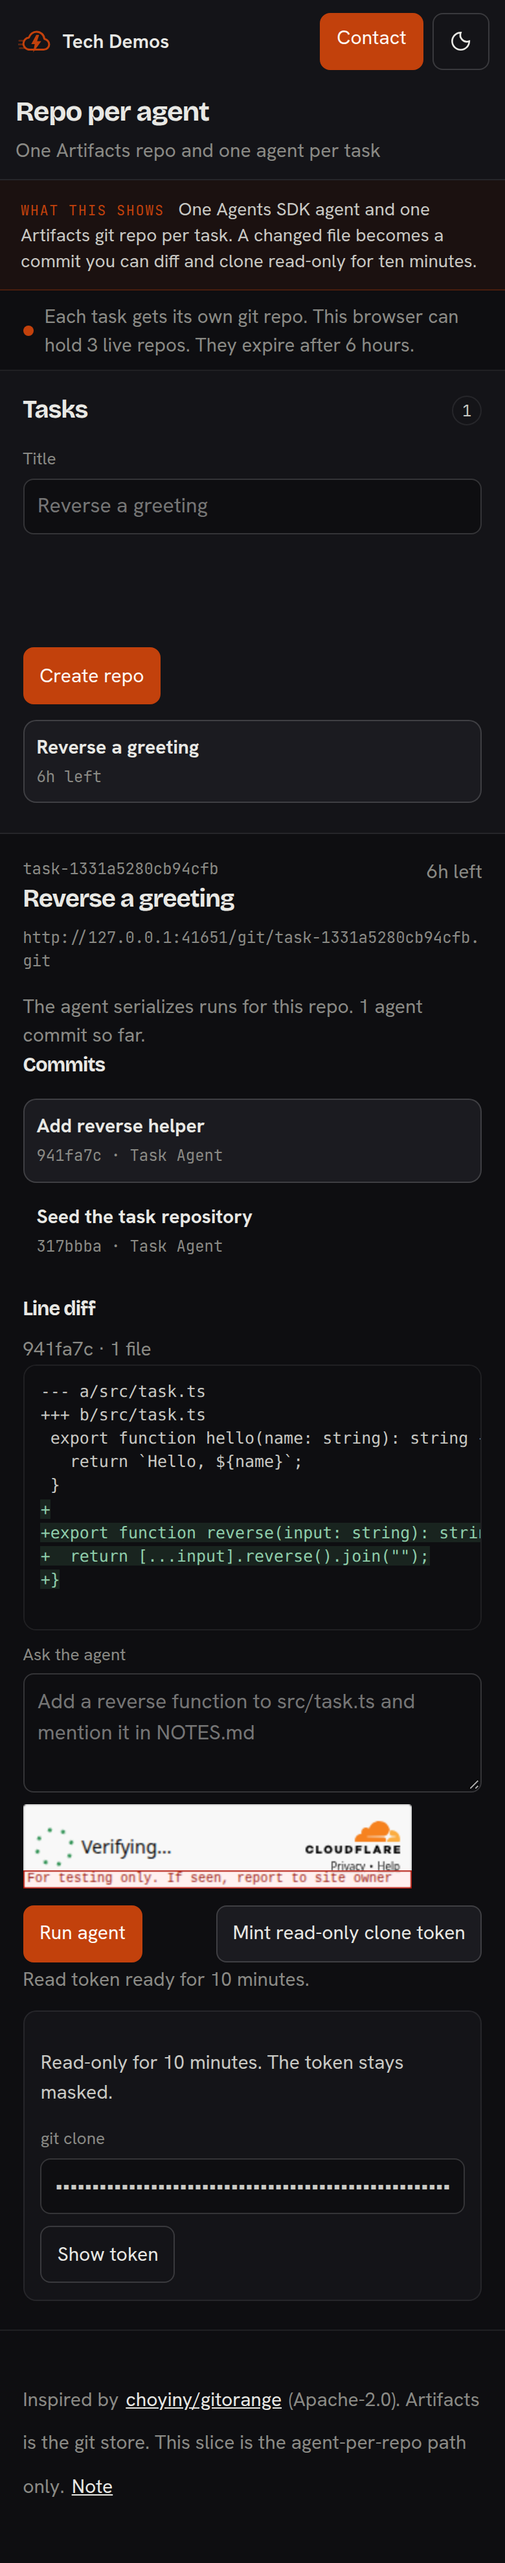
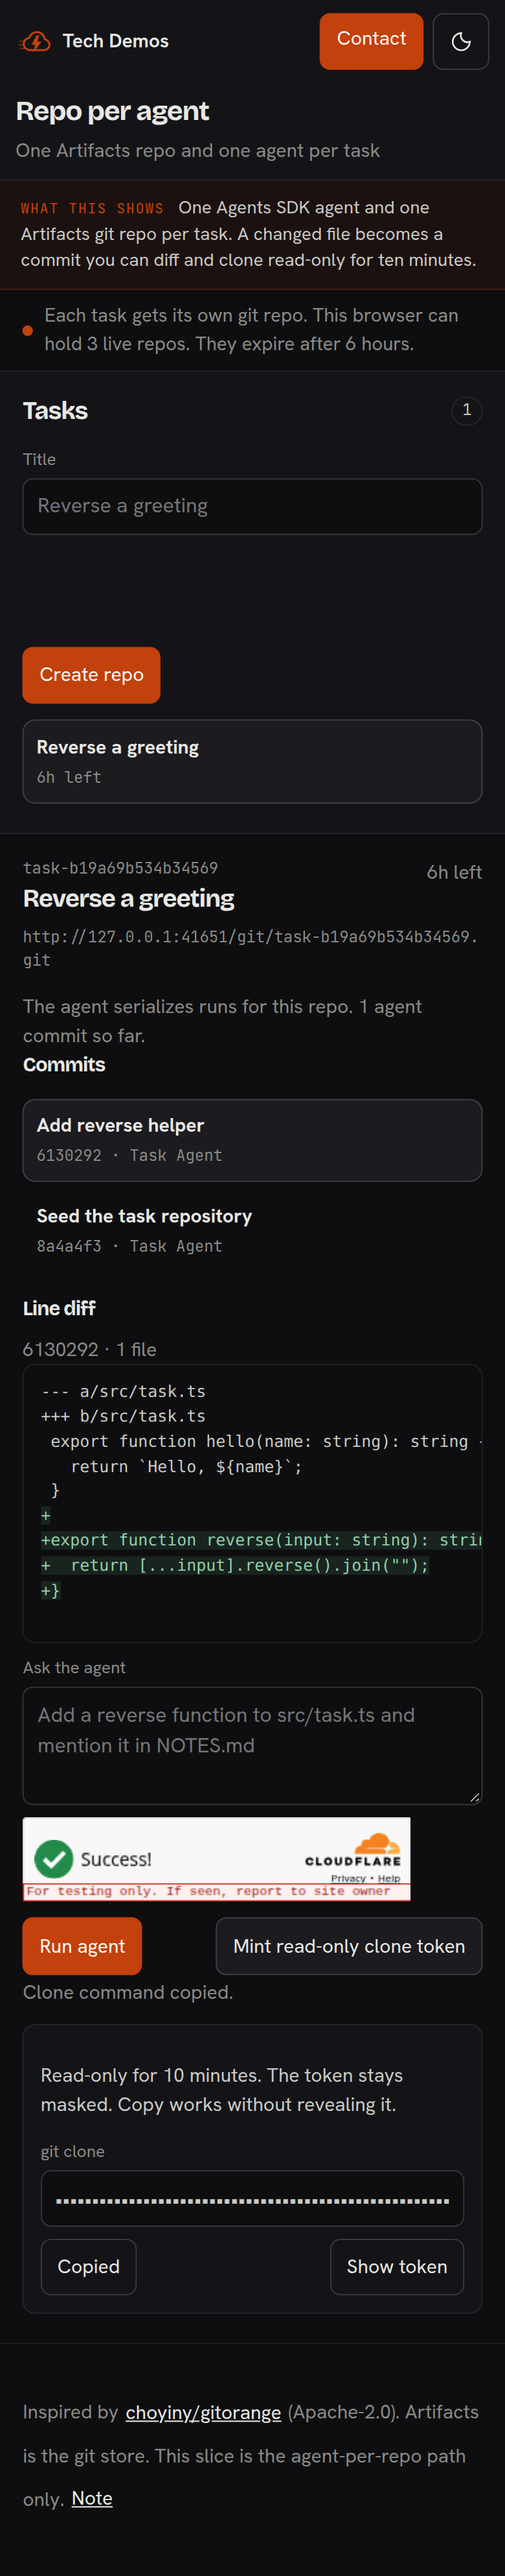
Harden clone copy and refresh 390px proof shots
Clipboard write now times out so a stuck permission does not hang
the copy button. Screenshots show the 390px task view, the copied
clone command, and the desktop split.

diff --git a/demos/repo-per-agent/src/client/app.ts b/demos/repo-per-agent/src/client/app.ts
@@ -337,13 +337,23 @@ $("token-btn").addEventListener("click", async () => {
   }
 });
 
+async function copyText(text: string): Promise<void> {
+  if (navigator.clipboard?.writeText) {
+    await Promise.race([
+      navigator.clipboard.writeText(text),
+      new Promise<never>((_, reject) => setTimeout(() => reject(new Error("clipboard timeout")), 800)),
+    ]);
+    return;
+  }
+  throw new Error("no clipboard");
+}
+
 $("token-copy").addEventListener("click", async () => {
   const input = $<HTMLInputElement>("token-command");
   const text = input.value;
   if (!text) return;
   try {
-    if (!navigator.clipboard?.writeText) throw new Error("no clipboard");
-    await navigator.clipboard.writeText(text);
+    await copyText(text);
     $("token-copy").textContent = "Copied";
     hint("run-hint", "Clone command copied.");
   } catch {
@@ -352,6 +362,15 @@ $("token-copy").addEventListener("click", async () => {
     $("token-reveal").textContent = "Hide token";
     input.focus();
     input.select();
+    try {
+      if (document.execCommand("copy")) {
+        $("token-copy").textContent = "Copied";
+        hint("run-hint", "Clone command copied.");
+        return;
+      }
+    } catch {
+      // Fall through to the select hint.
+    }
     hint("run-hint", "Select the command and copy it.");
   }
 });
